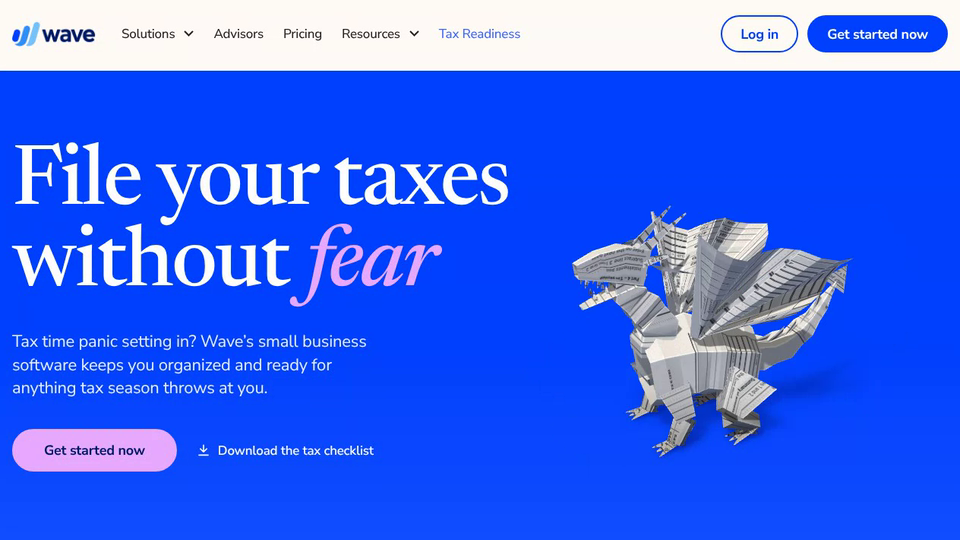
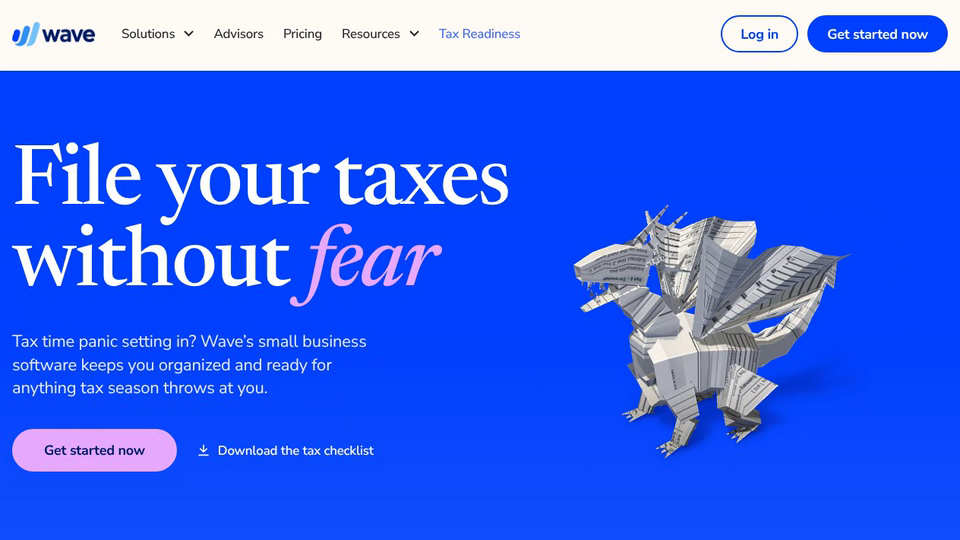
Wave Tax Landing Origami: flattened creature folds into a packet that opens flap by flap (#936)
* Wave Tax Landing Origami: dark pink advisor image overlay

Claude-Session: https://claude.ai/code/session_016rpguaGnGwA1zdzYfzRZj8

* Wave Tax Landing Origami: clean up advisor image overlay mask

Rebuilt the pink overlay mask: smooth cutout edges, no glow rim, crisp
white ADVISORS outlines, untinted desk legs, even background tone.

Claude-Session: https://claude.ai/code/session_016rpguaGnGwA1zdzYfzRZj8

* Wave Tax Landing Origami: lighter pink advisor image overlay

Claude-Session: https://claude.ai/code/session_016rpguaGnGwA1zdzYfzRZj8

* Wave Tax Landing Origami: advisor overlay matches the card pink

Claude-Session: https://claude.ai/code/session_016rpguaGnGwA1zdzYfzRZj8

* Wave Tax Landing Origami: fix untinted halo around consultant's hair and ear

Claude-Session: https://claude.ai/code/session_016rpguaGnGwA1zdzYfzRZj8

* Wave Tax Landing Origami: origami fold, spider title toward camera, portrait moving CTA forms

- Creatures now fold like origami: limbs draw in, the body presses flat
  into a folded packet, and the sheet opens along straight creases
  (book/cupboard folds) instead of breaking into flying pieces.
- Spider: the T5018 title sits on the camera-facing side of the
  abdomen, and the spider is turned so its face angles toward the camera.
- Closing CTA forms use a portrait layout and slowly lift and settle.
- Re-recorded the home page clip at the new timings.

Claude-Session: https://claude.ai/code/session_016rpguaGnGwA1zdzYfzRZj8
[…]

Changed region(s): [[0.5938, 0.3852, 0.9062, 0.8593]]

diff --git a/wave-tax-landing-origami/index.html b/wave-tax-landing-origami/index.html
@@ -848,7 +848,30 @@ MODELS.lotus3 = lotusModel([[12, 0.26, 0.02, 40, 20, 1.15, 0.2, 0, 0.35], [12, 0
 });
 
 // the plain sheet: a portrait CRA form (8.5 x 11)
-MODELS.sheet = () => [{ fixed: true, nu: 40, nv: 52, d0: 0, d1: 0, f: (u, v) => [(u - 0.5) * SHEET_W, 0, (v - 0.5) * SHEET] }];
+MODELS.sheet = () => [{ fixed: true, nu: 80, nv: 104, d0: 0, d1: 0, f: (u, v) => [(u - 0.5) * SHEET_W, 0, (v - 0.5) * SHEET] }];
+/* the flattened creature is a folded packet of the form; it opens flap by flap.
+   Folding order (unfolding runs it backwards): top band, bottom band, left band, right band, then the four corners together.
+   Each flap turns over its crease line on top of the stack. f: 1 = packet, 0 = flat. */
+const PK_X = 0.45, PK_Z = 0.5;
+function sheetFolds() {
+  const W = SHEET_W / 2, H = SHEET / 2, px = W * PK_X, pz = H * PK_Z, c = 0.3;
+  const corner = (sx, sz) => { const n = V.norm([sx, 0, sz]); return { p: [sx * px - n[0] * c, sz * pz - n[2] * c], n: [n[0], n[2]] }; };
+  return [[{ p: [0, -pz], n: [0, -1] }], [{ p: [0, pz], n: [0, 1] }], [{ p: [-px, 0], n: [-1, 0] }], [{ p: [px, 0], n: [1, 0] }], [corner(-1, -1), corner(1, -1), corner(-1, 1), corner(1, 1)]];
+}
+let SF = null;
+function sheetFoldPoint(x, z, f, out) {
+  SF = SF || sheetFolds(); const N = SF.length, t = f * N; let px = x, py = 0, pz = z;
+  for (let i = 0; i < N; i++) {
+    const e = clamp((t - i * 0.8) / 1.8), ee = e < 0.5 ? 4 * e * e * e : 1 - Math.pow(-2 * e + 2, 3) / 2; if (ee <= 0) continue;
+    const ya = 0.003 * (i + 1), th = Math.PI * ee;
+    for (const F of SF[i]) {
+      const dc = (px - F.p[0]) * F.n[0] + (pz - F.p[1]) * F.n[1]; if (dc <= 0) continue;
+      const dy = py - ya, nd = dc * Math.cos(th) - dy * Math.sin(th), ny = dc * Math.sin(th) + dy * Math.cos(th);
+      px += F.n[0] * (nd - dc); pz += F.n[1] * (nd - dc); py = ya + ny;
+    }
+  }
+  out[0] = px; out[1] = py; out[2] = pz; return out;
+}
 /* ---------- patches -> one mesh: split long patches, lay all patches out on the sheet by area, weld, find creases ---------- */
 const SHEET = 3.3, FORM_ASP = 11 / 8.5, SHEET_W = SHEET / FORM_ASP;
 function measure(p) {
@@ -1133,7 +1156,7 @@ function unfoldOf(m) {
   const rect = new Float32Array(n * 3); let rmin = 1e9; for (let i = 0; i < n; i++) rmin = Math.min(rmin, rho[i]); rmin *= 0.97;
   for (let i = 0; i < n; i++) {
     const a = ang[i], c = Math.cos(a), s2 = Math.sin(a), bf = (a + Math.PI) / TAU * NB - 0.5, b0 = ((Math.floor(bf) % NB) + NB) % NB, t = bf - Math.floor(bf), R = mix(sm[b0], sm[(b0 + 1) % NB], t) || 1;
-    const bd = Math.min(SHEET_W / 2 / Math.max(1e-6, Math.abs(c)), SHEET / 2 / Math.max(1e-6, Math.abs(s2))), q = Math.min(1, Math.pow(Math.max(0, rho[i] - rmin) / Math.max(1e-6, R - rmin), 0.85)) * bd;
+    const bd = Math.min(SHEET_W / 2 * PK_X * 0.84 / Math.max(1e-6, Math.abs(c)), SHEET / 2 * PK_Z * 0.84 / Math.max(1e-6, Math.abs(s2))), q = Math.min(1, Math.pow(Math.max(0, rho[i] - rmin) / Math.max(1e-6, R - rmin), 0.85)) * bd;
     rect[i * 3] = c * q; rect[i * 3 + 1] = 0; rect[i * 3 + 2] = s2 * q;
   }
   return (m.uf = { cx, cz, rect });
@@ -1165,16 +1188,24 @@ Scene.prototype.draw = function (k, frame = 0) {
   // morph every layer on the CPU: staggered unfold, sway, a little lift while paper is in the air
   const sa = Math.sin(st * 1.35) * 0.075 * sw, sc = Math.cos(sa), ss = Math.sin(sa), lean = Math.sin(st * 1.35 - 0.7) * 0.045 * sw, breath = 1 + Math.sin(st * 2.7) * 0.012 * sw;
   let x0 = 1e9, x1 = -1e9, y0 = 1e9, y1 = -1e9;
-  const useSheet = o.origami && k > 0.985, kB = o.origami ? sstep(0.5, 0.985, k) : 0, swB = sw * (1 - kB);
-  for (const ly of this.layers) ly.act = useSheet ? (this.sg || (this.sg = new Geo(mesh('sheet')))) : ly.gc;
-  if (o.time != null) for (const ly of this.layers) { const m = ly.m; if (!m.live) continue; for (let i = 0; i <= m.lnu; i++) for (let j = 0; j <= m.lnv; j++) m.fold.set(m.live(i / m.lnu, j / m.lnv, o.time), (i * (m.lnv + 1) + j) * 3); }
-  for (const ly of this.layers) {
+  const KS = 0.5, useSheet = o.origami && k > KS, kB = o.origami ? sstep(0.3, KS, k) : 0, swB = sw * (1 - kB);
+  // while the creature presses flat, the folded packet grows in underneath it, so the creature settles onto the packet before it opens
+  let LY = this.layers;
+  if (o.origami && k > 0.38 && k <= KS) { const l0 = this.layers[0]; this.pg = this.pg || new Geo(mesh('sheet')); LY = this.layers.concat([{ act: this.pg, packet: sstep(0.38, KS, k), tex: l0.tex, texB: l0.texB, tex2: null, tint: l0.tint }]); }
+  for (const ly of LY) if (ly.packet == null) ly.act = useSheet ? (this.sg || (this.sg = new Geo(mesh('sheet')))) : ly.gc;
+  if (o.time != null) for (const ly of LY) { const m = ly.m; if (!m.live) continue; for (let i = 0; i <= m.lnu; i++) for (let j = 0; j <= m.lnv; j++) m.fold.set(m.live(i / m.lnu, j / m.lnv, o.time), (i * (m.lnv + 1) + j) * 3); }
+  for (const ly of LY) {
     const A = ly.act, m = A.m, P = A.pos, fold = m.fold, flat = m.flat;
-    if (useSheet) { // the flat portrait sheet
-      P.set(flat);
+    if (ly.packet != null) { // the closed packet, growing in under the creature
+      const g = mix(0.55, 1, ly.packet), q = [0, 0, 0];
+      for (let i = 0; i < m.nVtx; i++) { sheetFoldPoint(flat[i * 3], flat[i * 3 + 2], 1, q); P[i * 3] = q[0] * g; P[i * 3 + 1] = q[1] * g - 0.03 * (1 - ly.packet) - 0.002; P[i * 3 + 2] = q[2] * g; }
+    } else if (useSheet) { // the packet opens flap by flap into the flat portrait form
+      const ff = 1 - (k - KS) / (1 - KS), q = [0, 0, 0];
+      for (let i = 0; i < m.nVtx; i++) { sheetFoldPoint(flat[i * 3], flat[i * 3 + 2], ff, q); P[i * 3] = q[0]; P[i * 3 + 1] = q[1]; P[i * 3 + 2] = q[2]; }
     } else if (o.origami) { // unfold: tip everything outward onto the ground, then spread it into the sheet
-      const U = unfoldOf(m), R = U.rect, kA = clamp(k / 0.62), bE = kB < 0.5 ? 4 * kB * kB * kB : 1 - Math.pow(-2 * kB + 2, 3) / 2;
+      const U = unfoldOf(m), R = U.rect, kA = clamp(k / 0.4), bE = kB < 0.5 ? 4 * kB * kB * kB : 1 - Math.pow(-2 * kB + 2, 3) / 2;
       const sa2 = Math.sin(st * 1.35) * 0.075 * swB, sc2 = Math.cos(sa2), ss2 = Math.sin(sa2), lean2 = lean * (1 - kB), br2 = 1 + (breath - 1) * (1 - kB);
+      const gP = mix(0.55, 1, sstep(0.38, KS, k)), yP = 0.024 - 0.05 * sstep(0.46, KS, k);
       for (let i = 0; i < m.nVtx; i++) {
         const d = m.dly[i], e = clamp(kA * 1.5 - d * 0.5), ee = e < 0.5 ? 4 * e * e * e : 1 - Math.pow(-2 * e + 2, 3) / 2, i3 = i * 3;
         let fx = fold[i3], fy = fold[i3 + 1], fz = fold[i3 + 2];
@@ -1183,7 +1214,7 @@ Scene.prototype.draw = function (k, frame = 0) {
         const x = fx - U.cx, z = fz - U.cz, r = Math.hypot(x, z), ph = ee * Math.PI / 2, h = Math.max(0, fy), rr = r + 0.6 * h * Math.sin(ph), sc3 = r > 1e-6 ? rr / r : 0;
         let px = U.cx + x * sc3, py = fy - h + h * Math.cos(ph), pz = U.cz + z * sc3;
         if (r <= 1e-6) { const a = i * 2.39996; px = U.cx + Math.cos(a) * 0.6 * h * Math.sin(ph); pz = U.cz + Math.sin(a) * 0.6 * h * Math.sin(ph); }
-        P[i3] = px + (R[i3] - px) * bE; P[i3 + 1] = py * (1 - bE); P[i3 + 2] = pz + (R[i3 + 2] - pz) * bE;
+        P[i3] = px + (R[i3] * gP - px) * bE; P[i3 + 1] = py * (1 - bE) + yP * bE; P[i3 + 2] = pz + (R[i3 + 2] * gP - pz) * bE;
       }
     } else for (let i = 0; i < m.nVtx; i++) {
       const d = m.dly[i], e = clamp(k * 1.45 - d * 0.45), ee = e < 0.5 ? 4 * e * e * e : 1 - Math.pow(-2 * e + 2, 3) / 2, i3 = i * 3;
@@ -1198,7 +1229,7 @@ Scene.prototype.draw = function (k, frame = 0) {
   }
   if (o.center) { const ca = o.centerAmt == null ? 1 : o.centerAmt; ox += (W * (o.centerX || 0.5) - (x0 + x1) / 2) * ca; oy += (H * (o.centerY || 0.5) - (y0 + y1) / 2) * ca; }
   // face normals, then per-corner normals smoothed only across shallow angles so folds stay crisp
-  for (const ly of this.layers) {
+  for (const ly of LY) {
     const A = ly.act, m = A.m, P = A.pos, tri = m.tri, B = A.buf, fnr = A.fnr;
     for (let t = 0; t < m.nT; t++) {
       const a = tri[t * 3] * 3, b = tri[t * 3 + 1] * 3, c = tri[t * 3 + 2] * 3, ux = P[b] - P[a], uy = P[b + 1] - P[a + 1], uz = P[b + 2] - P[a + 2], vx = P[c] - P[a], vy = P[c + 1] - P[a + 1], vz = P[c + 2] - P[a + 2];
@@ -1223,7 +1254,7 @@ Scene.prototype.draw = function (k, frame = 0) {
   const cv = G.cv; if (cv.width < W || cv.height < H) { cv.width = Math.max(cv.width, W); cv.height = Math.max(cv.height, H); }
   ensureFB(G, W, H);
   gl.bindVertexArray(G.vao);
-  for (const ly of this.layers) { const A = ly.act; if (!A.vbo) A.vbo = gl.createBuffer(); gl.bindBuffer(gl.ARRAY_BUFFER, A.vbo); gl.bufferData(gl.ARRAY_BUFFER, A.buf, gl.DYNAMIC_DRAW); }
+  for (const ly of LY) { const A = ly.act; if (!A.vbo) A.vbo = gl.createBuffer(); gl.bindBuffer(gl.ARRAY_BUFFER, A.vbo); gl.bufferData(gl.ARRAY_BUFFER, A.buf, gl.DYNAMIC_DRAW); }
   const attr = (ly, full) => {
     gl.bindBuffer(gl.ARRAY_BUFFER, ly.act.vbo); const S = 56;
     gl.enableVertexAttribArray(0); gl.vertexAttribPointer(0, 3, gl.FLOAT, false, S, 0);
@@ -1238,7 +1269,7 @@ Scene.prototype.draw = function (k, frame = 0) {
   gl.bindFramebuffer(gl.FRAMEBUFFER, G.smFbo); gl.viewport(0, 0, G.SM, G.SM); gl.colorMask(false, false, false, false); gl.depthMask(true); gl.clearDepth(1); gl.clear(gl.DEPTH_BUFFER_BIT);
   gl.useProgram(G.depth); { const u = G.depth.u; gl.uniform3fv(u.uLC, LC); gl.uniform3fv(u.uLX, lx); gl.uniform3fv(u.uLY, ly_); gl.uniform3fv(u.uL, L); gl.uniform1f(u.uLR, LR); }
   gl.enable(gl.POLYGON_OFFSET_FILL); gl.polygonOffset(1.5, 2);
-  for (const ly of this.layers) { attr(ly, false); gl.drawArrays(gl.TRIANGLES, 0, ly.act.n); }
+  for (const ly of LY) { attr(ly, false); gl.drawArrays(gl.TRIANGLES, 0, ly.act.n); }
   gl.disable(gl.POLYGON_OFFSET_FILL); gl.colorMask(true, true, true, true);
   // 2. ground shadow: projected silhouette (R) and contact term (G), blurred
   const sc4 = parseCol(o.shadow);
@@ -1247,7 +1278,7 @@ Scene.prototype.draw = function (k, frame = 0) {
     gl.bindFramebuffer(gl.FRAMEBUFFER, A.fbo); gl.viewport(0, 0, W, H); gl.disable(gl.DEPTH_TEST); gl.clearColor(0, 0, 0, 0); gl.clear(gl.COLOR_BUFFER_BIT);
     gl.enable(gl.BLEND); gl.blendEquation(gl.MAX); gl.blendFunc(gl.ONE, gl.ONE);
     gl.useProgram(G.gnd); cam(G.gnd); gl.uniform3fv(G.gnd.u.uL, L); gl.uniform1f(G.gnd.u.uCon, 5);
-    for (const ly of this.layers) { attr(ly, false); gl.drawArrays(gl.TRIANGLES, 0, ly.act.n); }
+    for (const ly of LY) { attr(ly, false); gl.drawArrays(gl.TRIANGLES, 0, ly.act.n); }
     gl.blendEquation(gl.FUNC_ADD); gl.disable(gl.BLEND);
     const blur = (src, dst, dir, rw, rc) => { gl.bindFramebuffer(gl.FRAMEBUFFER, dst.fbo); gl.viewport(0, 0, W, H); gl.useProgram(G.blur); gl.activeTexture(gl.TEXTURE0); gl.bindTexture(gl.TEXTURE_2D, src.tex); gl.uniform1i(G.blur.u.uT, 0); gl.uniform2f(G.blur.u.uDir, dir[0], dir[1]); gl.uniform2f(G.blur.u.uR, rw, rc); gl.uniform2f(G.blur.u.uSz, G.fw, G.fh); gl.drawArrays(gl.TRIANGLES, 0, 3); };
     const bw = (o.shadowBlur || W / 70), bc = bw * 0.28;
@@ -1263,10 +1294,10 @@ Scene.prototype.draw = function (k, frame = 0) {
   }
   gl.useProgram(G.main); cam(G.main); { const u = G.main.u;
     gl.uniform3fv(u.uL, L); gl.uniform3fv(u.uLC, LC); gl.uniform3fv(u.uLX, lx); gl.uniform3fv(u.uLY, ly_); gl.uniform1f(u.uLR, LR); gl.uniform1f(u.uSM_px, 1 / G.SM);
-    gl.uniform3fv(u.uBounce, o.bounce); gl.uniform3fv(u.uSky, o.sky); gl.uniform1f(u.uK, k); gl.uniform1f(u.uCalm, calm); gl.uniform1f(u.uBright, o.bright || 0); gl.uniform1f(u.uAO, o.ao * (1 - sstep(0.2, 0.7, o.origami ? clamp(k / 0.62) : 0))); gl.uniform1f(u.uSheen, o.sheen); gl.uniform1f(u.uAmb, o.amb == null ? 0.52 : o.amb); gl.uniform1f(u.uKey, o.key == null ? 0.46 : o.key); gl.uniform1f(u.uPlanar, useSheet ? 1 : kB < 0.5 ? 4 * kB * kB * kB : 1 - Math.pow(-2 * kB + 2, 3) / 2); gl.uniform2f(u.uSheet, SHEET_W, SHEET);
+    gl.uniform3fv(u.uBounce, o.bounce); gl.uniform3fv(u.uSky, o.sky); gl.uniform1f(u.uK, k); gl.uniform1f(u.uCalm, calm); gl.uniform1f(u.uBright, o.bright || 0); gl.uniform1f(u.uAO, o.ao * (1 - sstep(0.2, 0.7, o.origami ? clamp(k / 0.4) : 0))); gl.uniform1f(u.uSheen, o.sheen); gl.uniform1f(u.uAmb, o.amb == null ? 0.52 : o.amb); gl.uniform1f(u.uKey, o.key == null ? 0.46 : o.key); gl.uniform1f(u.uPlanar, 0); gl.uniform2f(u.uSheet, SHEET_W, SHEET);
     gl.activeTexture(gl.TEXTURE3); gl.bindTexture(gl.TEXTURE_2D, G.smTex); gl.uniform1i(u.uSM, 3); gl.uniform1i(u.uT0, 0); gl.uniform1i(u.uT1, 1); gl.uniform1i(u.uT2, 2); }
   const texMix = o.texMix || 0;
-  for (const ly of this.layers) {
+  for (const ly of LY) {
     const u = G.main.u; gl.uniform3fv(u.uTint, ly.tint ? parseCol(ly.tint).slice(0, 3) : [1, 1, 1]);
     gl.activeTexture(gl.TEXTURE0); gl.bindTexture(gl.TEXTURE_2D, texFor(G, ly.tex)); gl.activeTexture(gl.TEXTURE1); gl.bindTexture(gl.TEXTURE_2D, texFor(G, ly.texB));
     gl.activeTexture(gl.TEXTURE2); gl.bindTexture(gl.TEXTURE_2D, texFor(G, ly.tex2 || ly.tex)); gl.uniform1f(u.uMix, ly.tex2 ? texMix : 0);
@@ -1292,7 +1323,7 @@ const SEQ = [
   { c: 'spider', z: 0.74, yaw: -0.62, f: 'T5018', name: 'The T5018 spider', form: 'T5018 Summary of Contract Payments' },
   { c: 'snake', z: 0.95, f: 'T2125', name: 'The T2125 cobra', form: 'Statement of Business or Professional Activities' },
 ];
-const HOLD = 1.5, DUR = 3.2, FLAT = 1.6, REFOLD = 3.2, SEG = HOLD + DUR + FLAT + REFOLD, TOTAL = SEG * SEQ.length;
+const HOLD = 1.5, DUR = 4.4, FLAT = 1.4, REFOLD = 4.4, SEG = HOLD + DUR + FLAT + REFOLD, TOTAL = SEG * SEQ.length;
 const stage = document.getElementById('stage');
 const mobile = () => innerWidth <= 820;
 const heroOpt = () => mobile() ? { cx: 0.5, cy: 0.6, fov: 1.25, flatDist: 1.9, centerX: 0.5, centerY: 0.62 } : { centerX: innerWidth < 1400 ? 0.74 : 0.72, centerY: 0.55, cx: innerWidth < 1400 ? 0.755 : 0.74, cy: 0.58, fov: innerWidth < 1400 ? 1.2 : 1.24, zoom: 1, flatDist: 1.95 };

diff --git a/tools/record-clips.js b/tools/record-clips.js
@@ -35,9 +35,9 @@ const APPS = {
   // Wave File Without Fear, a Wave tax-season landing page: on full-bleed blue, a paper dragon folded from a CRA T1 form holds, then unfolds in 12 fps stop motion into a flat creased sheet (starts on the folded dragon)
   // Wave Tax Landing Origami, the same tax-season landing page with higher fidelity paper creatures: a dragon folded from a CRA T2 form with pleated wings, lit and casting a soft shadow on full-bleed blue, unfolds in stop motion into a flat printed sheet.
   'wave-tax-landing-origami': { vp: [1280, 792], crop: [0, 72, 1280, 720], hash: '#clip', ready: 2500, q: 44, run: async (p) => {
-    await p.evaluate(() => window.__rb.seek(9.6));
+    await p.evaluate(() => window.__rb.seek(12.4));
     await sleep(700);
-    await p.evaluate(() => window.__rb.play({ from: 9.6, speed: 1.05, loop: false, to: 15.55 }));
+    await p.evaluate(() => window.__rb.play({ from: 12.4, speed: 1.05, loop: false, to: 18.35 }));
     await sleep(5800);
   } },
   'wave-file-without-fear': { vp: [1280, 792], crop: [0, 72, 1280, 720], hash: '#clip', ready: 1200, q: 44, run: async (p) => {
